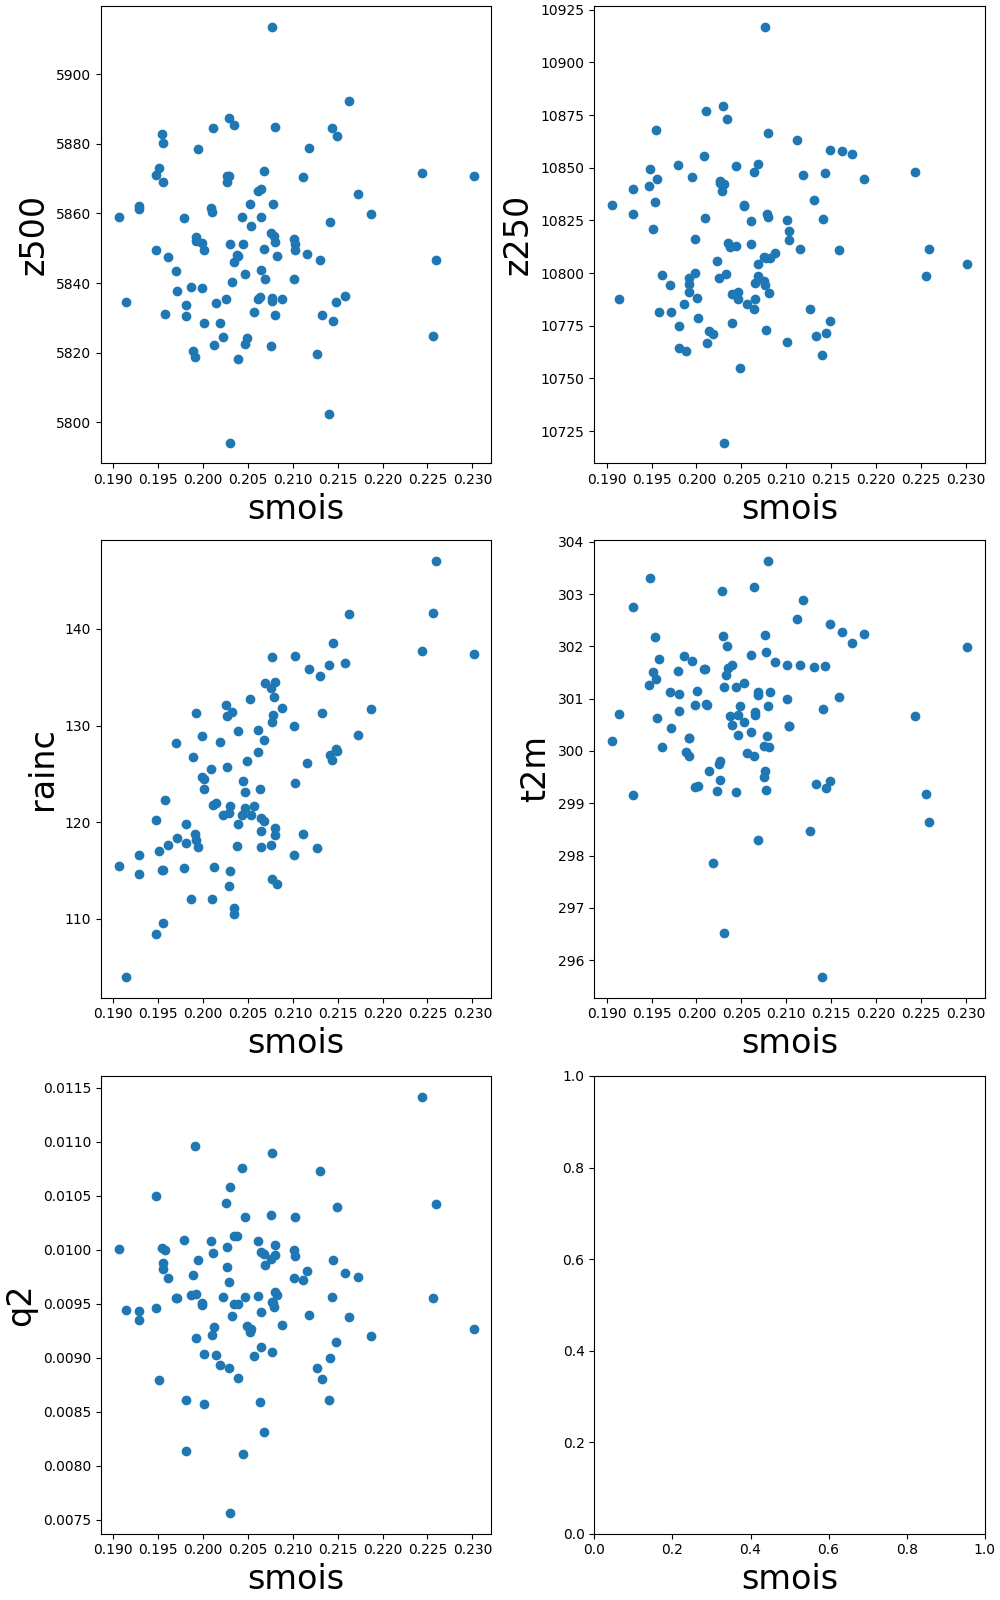
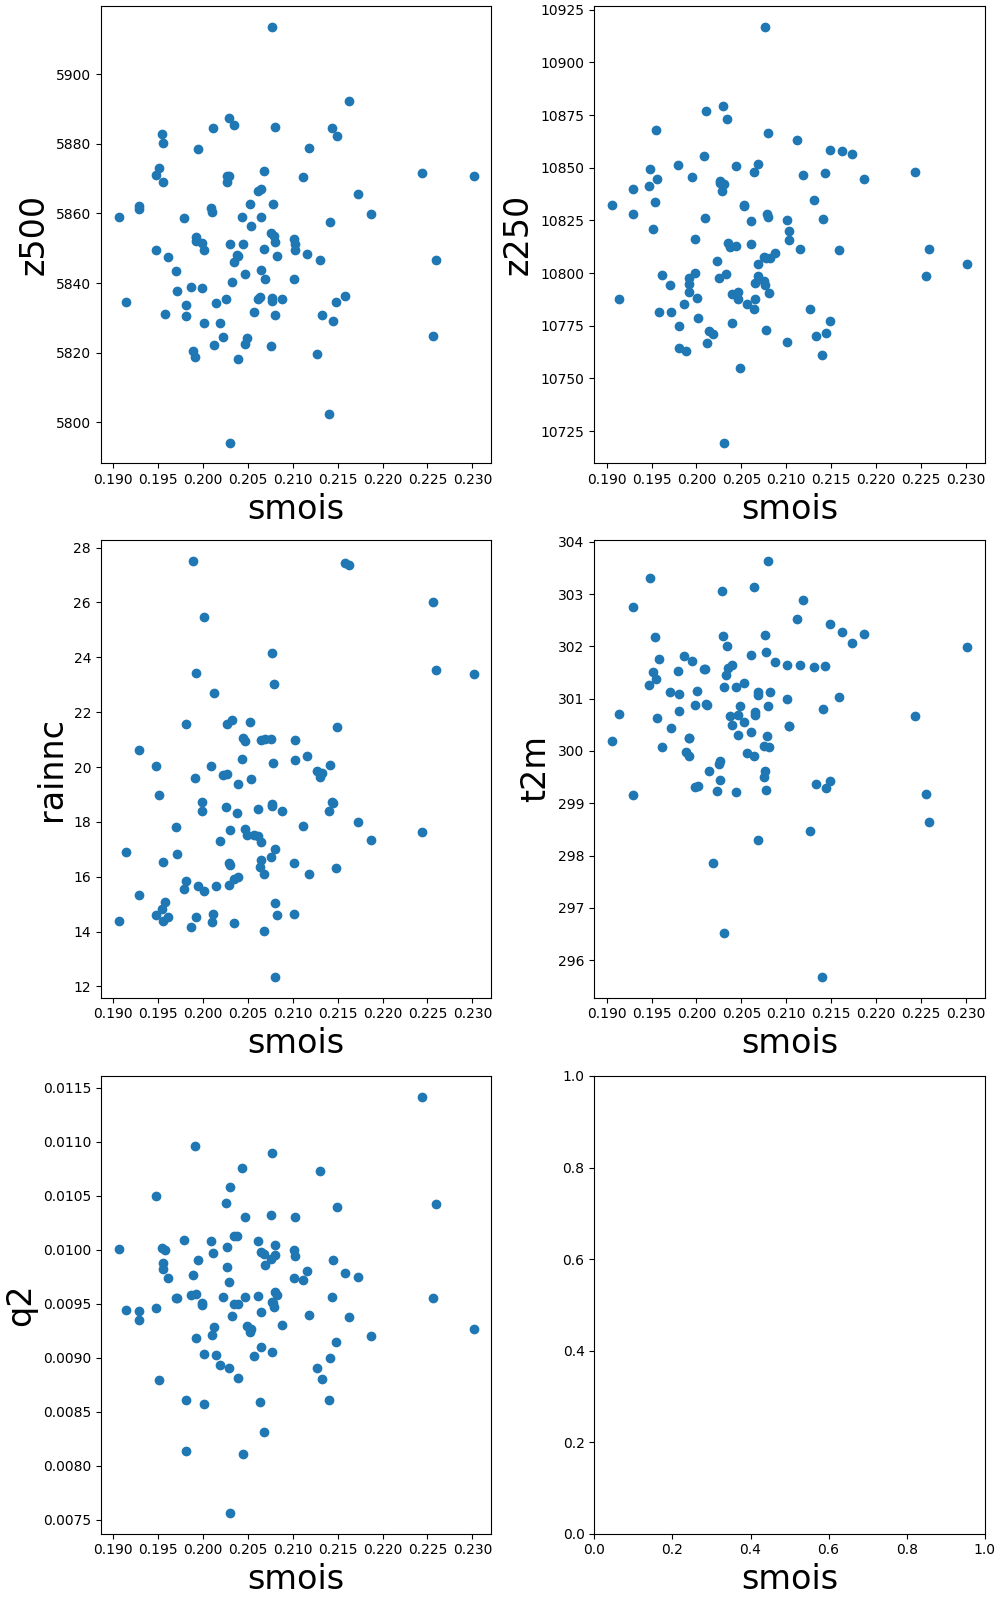
finished coding glace smois

diff --git a/ensemble_sensitivity_with_glace.py b/ensemble_sensitivity_with_glace.py
@@ -1,8 +1,14 @@
 '''
-Alex Yang Honors Thesis Task 5 SU26
+Alex Yang Honors Thesis Task 6 SU26
 /users/PAS3252/ayang1720/HONORS_THESIS
 /fs/ess/PAS2635/LandAir_Predictability
 /fs/scratch/PAS3252/yang/HONORS_THESIS
+
+most of the code was copied over from task 5, but the new mask used for soil moisure
+pulls only smois data from where coupling has shown to be strongest from the glace
+experiment done by koster et. al (2006) -> we're going to restrict the conus domain
+to just 37-44 N lat and 97-104 W lon (great plains showed most significant in conus)
+
 '''
 
 #imports
@@ -46,14 +52,15 @@ def construct_array(responses):
         print('ensemble #'+str(i+1))
     return array_of_global_response_variables
 
+#NOTE: update to the conusify function. conus_mask no longer applies. conus_mask is always true.
+#NOTE: updated the function to not area-average, but return a
 #input: array of some meterological variable with shape (ensemble,ncells)
-#output: an area averaged array of only the land over CONUS (ensemble)
+#output: an array of atmospheric state values not counting the ocean (ensemble,ncells)
 def conusify(array_to_be_conusified,land_mask,conus_mask):
-    conusified_array=np.zeros(number_of_ensembles)
+    conusified_array=np.zeros((number_of_ensembles,ncells))
     for i in range(number_of_ensembles):
         array_to_be_conusified[i,:]*=land_mask*conus_mask
-        conusified_array[i]=\
-        array_to_be_conusified[i][array_to_be_conusified[i]!=0].mean()
+        conusified_array[i]=array_to_be_conusified[i]
     return conusified_array
 
 #input:
@@ -75,13 +82,14 @@ def cov(X,R):
 
 #input: array of response variables
 #output: array of correlations between the response variable and the soil moisture
+#output is now a 2d array, where axis 0 is every cell in MPAS (40962 of them) and axis 1 is the response variable
 def turn_response_variables_into_correlation_array(global_states_array,conus_smois,var_conus_smois,land_mask,conus_mask,number_of_ensembles):
-    correlations_array=np.zeros((global_states_array.shape[0]))
-    conusify_array=np.zeros((number_of_ensembles,global_states_array.shape[0]))
+    correlations_array=np.zeros((ncells,global_states_array.shape[0]))
+    conusify_array=np.zeros((number_of_ensembles,ncells,global_states_array.shape[0]))
     for i in range(len(global_states_array)): #loop over every response variable
-        conusify_array[:,i]=conusify(global_states_array[i],land_mask,conus_mask)
-        correlations_array[i]=cov(conus_smois,conusify_array[:,i])\
-        /np.sqrt(var_conus_smois)/np.sqrt(np.var(conusify_array[:,i],ddof=1))
+        conusify_array[:,:,i]=conusify(global_states_array[i],land_mask,conus_mask)
+        correlations_array[:,i]=cov(conus_smois,conusify_array[:,:,i])\
+        /np.sqrt(var_conus_smois)/np.sqrt(np.var(conusify_array[:,:,i],axis=0,ddof=1)) #varying over ensembles
     return correlations_array
 
 #script
@@ -93,10 +101,14 @@ latCell=np.array(nc['latCell']) #in radians
 lonCell=np.array(nc['lonCell']) #in radians
 latCell*=(180/np.pi) #in degrees
 lonCell*=(180/np.pi) #in degrees
-conus_mask=(latCell>=24.5)*(latCell<=49.4)*(lonCell>=(360-124.8))*(lonCell<=(360-66.9))
+#conus_mask=(latCell>=24.5)*(latCell<=49.4)*(lonCell>=(360-124.8))*(lonCell<=(360-66.9))
+conus_mask=True #change conus_mask to just apply to the entire world
 fname='/fs/ess/PAS2635/Generalized_Predictability_MPAS/120km_uniform/x1.40962.init.nc'
 nc=Dataset(fname)
 land_mask=np.squeeze(np.array(nc['landmask']))
+
+#constructing the GLACE mask
+glace_mask=(latCell>=37)*(latCell<=44)*(lonCell>=(360-104))*(lonCell<=(360-97))
 
 #constructing the soil moisture array for the entire globe on july 14th
 paths=np.empty(number_of_ensembles,dtype='object')
@@ -112,8 +124,13 @@ for i in range(number_of_ensembles):
 
 #conus_smois is an array of length 100 containing the area averaged smois
 #for the contiguous united states; 1 for each of the 100 ensemble members
-conus_smois=(conusify(smois_array,land_mask,conus_mask))
-var_conus_smois=np.var(conus_smois,ddof=1)
+conus_smois=(conusify(smois_array,land_mask,glace_mask)) #NOTE: this line edited to use glace mask
+area_averaged_smois_array=np.zeros((number_of_ensembles))
+for i in range(number_of_ensembles):
+    conus_smois_for_this_ensemble=conus_smois[i,:]
+    mean_for_this_ensemble=conus_smois_for_this_ensemble[conus_smois_for_this_ensemble!=0].mean()
+    area_averaged_smois_array[i]=mean_for_this_ensemble
+var_conus_smois=np.var(area_averaged_smois_array,ddof=1)
 
 #constructing the atmospheric state array for the entire globe on aug 1 (100 arrays of 40962 cells each)
 #global_arrays=np.zeros((len(response_variables),number_of_ensembles,ncells))
@@ -121,13 +138,15 @@ global_arrays=construct_array(response_variables) #shape: (# of responses, 100 e
 correlations=\
     turn_response_variables_into_correlation_array(global_arrays,conus_smois,var_conus_smois,land_mask,conus_mask,number_of_ensembles)
 
-for i in range(len(correlations)):
-    print("The correlation between smois and "+response_variables[i]+": "+str(correlations[i]))
+for i in range(len(response_variables)):
+    for j in range(ncells):
+        print(correlations[j,i])
 
 esa_dict={}
 esa_dict['smois']=conus_smois
 esa_dict['land_mask']=land_mask
 esa_dict['conus_mask']=conus_mask
+esa_dict['glace_mask']=glace_mask
 for i in range(len(response_variables)):
     esa_dict[response_variables[i]]=(conusify(global_arrays[i,:,:],land_mask,conus_mask))
 pickle.dump(esa_dict,open('ESA.pkl','wb'))

diff --git a/plotting_glace_correlations.py b/plotting_glace_correlations.py
@@ -1,0 +1,45 @@
+'''
+MPAS Plots for GLACE smois
+'''
+#import packages
+from netCDF4 import Dataset
+import pickle
+import numpy as np
+import cartopy.crs as ccrs
+import cartopy.feature as cfeature
+import matplotlib.pyplot as plt
+
+#script
+fname='/fs/ess/PAS2635/Generalized_Predictability_MPAS/120km_uniform/diag.2025-10-01_06.00.00.nc'
+nc=Dataset(fname)
+#geometric height interpolated to 500 hPa in units of meters (Time, nCells)
+height_500hPa=np.squeeze(np.array(nc['height_500hPa'])) #nCells==40962
+print(np.shape(height_500hPa))
+fname='/fs/ess/PAS2635/Generalized_Predictability_MPAS/120km_uniform/history.2025-10-01_06.00.00.nc'
+nc=Dataset(fname)
+latCell=np.array(nc['latCell']) #in radians
+lonCell=np.array(nc['lonCell']) #in radians
+smois=np.squeeze(np.array(nc['smois'])) #soil moisture in meters cubed per meters cubed (Time, nCells, nSoilLevels)
+print(np.shape(latCell))
+print(np.shape(lonCell))
+print(np.shape(smois)) #(40962, 4)
+
+#plotting
+lon2d,lat2d=np.meshgrid(lonCell,latCell)
+fig,axs=plt.subplots(nrows=1,ncols=1,figsize=(10,7),layout='constrained',\
+subplot_kw={"projection":ccrs.PlateCarree()})
+gl=axs.gridlines(draw_labels=True,color='black',linewidth=1,linestyle=':')
+gl.xlabel_style={'fontsize':14};gl.ylabel_style={'fontsize':14}
+axs.add_feature(cfeature.LAND,edgecolor='black',linewidth=1.0,facecolor='none',zorder=100)
+axs.set_title('October 1st at 6-UTC',fontsize=24)
+#scatter plot
+lonCell=np.rad2deg(lonCell)
+latCell=np.rad2deg(latCell)
+cs=axs.scatter(lonCell,latCell,c=height_500hPa,cmap='jet',s=50,marker='*',transform=ccrs.PlateCarree())
+cbar=plt.colorbar(cs,orientation='horizontal')
+cbar.set_label('500 mb Geometric Heights (in meters)',fontsize=24)
+
+#tricontourf plots (i have never used this module before, so i got help from chatGPT)
+
+plt.savefig('plot_scatter_500mb_heights.png')
+plt.close()

diff --git a/plotting_ensemble_sensitivities.py b/plotting_ensemble_sensitivities.py
@@ -8,9 +8,9 @@ import numpy as np
 
 esa_dict=pickle.load(open('ESA.pkl','rb'))
 smois=esa_dict['smois']
-z500=esa_dict['z500']
-z250=esa_dict['z250']
-rainc=esa_dict['rainc']
+z500=esa_dict['height_500hPa']
+z250=esa_dict['height_250hPa']
+rainc=esa_dict['rainnc']
 t2m=esa_dict['t2m']
 q2=esa_dict['q2']
 fig,axs=plt.subplots(nrows=3,ncols=2,constrained_layout=True,figsize=(10,16))
@@ -24,7 +24,7 @@ for i in range(3):
         axs[i,j].set_xlabel('smois',fontsize=24)
 axs[0,0].set_ylabel('z500',fontsize=24)
 axs[0,1].set_ylabel('z250',fontsize=24)
-axs[1,0].set_ylabel('rainc',fontsize=24)
+axs[1,0].set_ylabel('rainnc',fontsize=24)
 axs[1,1].set_ylabel('t2m',fontsize=24)
 axs[2,0].set_ylabel('q2',fontsize=24)
 plt.savefig('esa_scatter_plots.png')
